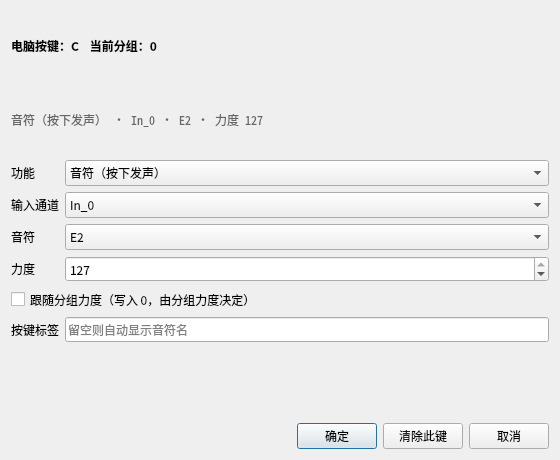
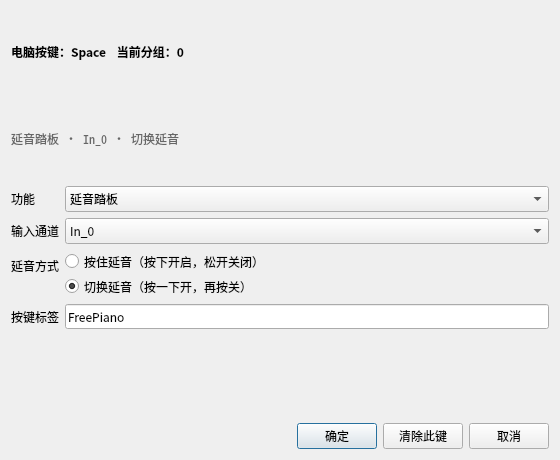
Sustain key modes: hold-to-sustain and toggle
The sustain pedal function in the key editor no longer exposes the generic
operation/value fields.  Instead it offers two explicit sub-options:

- Hold: keydown writes Sustain Set 127, keyup writes Sustain Set 0.
- Toggle: keydown writes Sustain Flip 127, so repeated presses switch
  between 0 and 127 (the old Flip 0 binding only turned sustain off).

The dialog detects an existing Flip binding as toggle and preserves it when
reopened.  Both modes work from physical keys, mouse clicks and .fpm playback;
CC64 state keeps the toolbar button in sync.

Add regression tests for detection, hold release and toggle flipping.
Bump to 1.0.4.

diff --git a/src/ui/main.cpp b/src/ui/main.cpp
@@ -7,6 +7,7 @@
 #include <QSpinBox>
 #include <QMouseEvent>
 #include <QPushButton>
+#include <QRadioButton>
 #include <QTabWidget>
 #include <QTimer>
 
@@ -532,6 +533,88 @@ int main(int argc, char** argv) {
       if (!dialog_ok) ++failures;
     }
 
+    // Sustain key modes: hold (keyup releases) and toggle (each press flips).
+    {
+      key_bind_t orig_down[16];
+      key_bind_t orig_up[16];
+      int n_down = config_bind_get_keydown(DIK_SPACE, orig_down, 16);
+      int n_up = config_bind_get_keyup(DIK_SPACE, orig_up, 16);
+      std::string orig_label = config_bind_get_label(DIK_SPACE);
+      int out_ch = config_get_output_channel(0);
+
+      auto apply_sustain_mode = [&](int mode_index) {
+        KeyEditDialog dialog(DIK_SPACE, &window);
+        dialog.show();
+        QApplication::processEvents();
+        auto* action = dialog.findChild<QComboBox*>("actionCombo");
+        auto* hold = dialog.findChild<QRadioButton*>("sustainHoldRadio");
+        auto* toggle = dialog.findChild<QRadioButton*>("sustainToggleRadio");
+        auto* buttons = dialog.findChild<QDialogButtonBox*>();
+        if (!action || !hold || !toggle || !buttons) return false;
+        action->setCurrentIndex(action->findData(SM_SUSTAIN));
+        if (mode_index == 0) hold->setChecked(true); else toggle->setChecked(true);
+        for (QAbstractButton* b : buttons->buttons()) {
+          if (buttons->buttonRole(b) == QDialogButtonBox::AcceptRole) {
+            b->click();
+            return true;
+          }
+        }
+        return false;
+      };
+
+      // Load the exact binding the user had (Sustain ... Flip 0) and make sure
+      // the dialog recognises it as "toggle" rather than showing Set/Value.
+      config_bind_clear_keydown(DIK_SPACE);
+      config_bind_clear_keyup(DIK_SPACE);
+      config_bind_add_keydown(DIK_SPACE, key_bind_t(SM_SUSTAIN, 0, SM_VALUE_FLIP, 0));
+      bool detected_toggle = false;
+      {
+        KeyEditDialog dialog(DIK_SPACE, &window);
+        dialog.show();
+        QApplication::processEvents();
+        auto* hold = dialog.findChild<QRadioButton*>("sustainHoldRadio");
+        auto* toggle = dialog.findChild<QRadioButton*>("sustainToggleRadio");
+        detected_toggle = hold && toggle && !hold->isChecked() && toggle->isChecked();
+        dialog.reject();
+      }
+      std::printf("  [%s] sustain dialog recognises Flip binding as toggle\n",
+                  detected_toggle ? "ok" : "FAIL");
+      if (!detected_toggle) ++failures;
+
+      bool hold_ok = false;
+      song_send_event(SM_SUSTAIN, 0, SM_VALUE_SET, 0, true);
+      if (apply_sustain_mode(0)) {
+        song_send_event(SM_SYSTEM, SMS_KEY_EVENT, DIK_SPACE, 1, true);
+        bool on = config_get_controller((uint8_t)(SM_OUTPUT_0 + out_ch), 64) >= 64;
+        song_send_event(SM_SYSTEM, SMS_KEY_EVENT, DIK_SPACE, 0, true);
+        bool off = config_get_controller((uint8_t)(SM_OUTPUT_0 + out_ch), 64) < 64;
+        hold_ok = on && off;
+      }
+      std::printf("  [%s] sustain key: hold mode turns off on release\n", hold_ok ? "ok" : "FAIL");
+      if (!hold_ok) ++failures;
+
+      bool toggle_ok = false;
+      song_send_event(SM_SUSTAIN, 0, SM_VALUE_SET, 0, true);
+      if (apply_sustain_mode(1)) {
+        song_send_event(SM_SYSTEM, SMS_KEY_EVENT, DIK_SPACE, 1, true);
+        bool on = config_get_controller((uint8_t)(SM_OUTPUT_0 + out_ch), 64) >= 64;
+        song_send_event(SM_SYSTEM, SMS_KEY_EVENT, DIK_SPACE, 0, true);
+        song_send_event(SM_SYSTEM, SMS_KEY_EVENT, DIK_SPACE, 1, true);
+        bool off = config_get_controller((uint8_t)(SM_OUTPUT_0 + out_ch), 64) < 64;
+        song_send_event(SM_SYSTEM, SMS_KEY_EVENT, DIK_SPACE, 0, true);
+        toggle_ok = on && off;
+      }
+      std::printf("  [%s] sustain key: toggle mode flips CC64\n", toggle_ok ? "ok" : "FAIL");
+      if (!toggle_ok) ++failures;
+
+      config_bind_clear_keydown(DIK_SPACE);
+      config_bind_clear_keyup(DIK_SPACE);
+      for (int i = 0; i < n_down; ++i) config_bind_add_keydown(DIK_SPACE, orig_down[i]);
+      for (int i = 0; i < n_up; ++i) config_bind_add_keyup(DIK_SPACE, orig_up[i]);
+      config_bind_set_label(DIK_SPACE, orig_label.c_str());
+      song_send_event(SM_SUSTAIN, 0, SM_VALUE_SET, 0, true);
+    }
+
     std::printf("%s (%d failure%s)\n", failures == 0 ? "UI TEST PASSED" : "UI TEST FAILED",
                 failures, failures == 1 ? "" : "s");
     engine_shutdown();
@@ -614,7 +697,12 @@ int main(int argc, char** argv) {
       editor.grab().save(shot_dialogs + "/keymap.png");
       editor.close();
 
-      KeyEditDialog keyedit(DIK_C, &window);
+      // Demo the user's actual Space binding: Sustain In_0 Flip 0 + label.
+      config_bind_clear_keydown(DIK_SPACE);
+      config_bind_clear_keyup(DIK_SPACE);
+      config_bind_add_keydown(DIK_SPACE, key_bind_t(SM_SUSTAIN, 0, SM_VALUE_FLIP, 0));
+      config_bind_set_label(DIK_SPACE, "FreePiano");
+      KeyEditDialog keyedit(DIK_SPACE, &window);
       keyedit.resize(560, 460);
       keyedit.show();
       QApplication::processEvents();

diff --git a/src/ui/keyeditdialog.cpp b/src/ui/keyeditdialog.cpp
@@ -12,6 +12,7 @@
 #include <QLabel>
 #include <QLineEdit>
 #include <QPushButton>
+#include <QRadioButton>
 #include <QSpinBox>
 #include <QVBoxLayout>
 
@@ -169,6 +170,21 @@ void KeyEditDialog::buildUi() {
   value_->setRange(0, 127);
   form_->addRow(fp_tr("数值", "Value"), value_);
 
+  sustain_mode_box_ = new QWidget(this);
+  auto* mode_layout = new QVBoxLayout(sustain_mode_box_);
+  mode_layout->setContentsMargins(0, 0, 0, 0);
+  mode_layout->setSpacing(2);
+  sustain_hold_ = new QRadioButton(
+      fp_tr("按住延音（按下开启，松开关闭）", "Hold to sustain (on while held)"), sustain_mode_box_);
+  sustain_hold_->setObjectName("sustainHoldRadio");
+  sustain_toggle_ = new QRadioButton(
+      fp_tr("切换延音（按一下开，再按关）", "Toggle sustain (press to switch)"), sustain_mode_box_);
+  sustain_toggle_->setObjectName("sustainToggleRadio");
+  sustain_toggle_->setChecked(true);
+  mode_layout->addWidget(sustain_hold_);
+  mode_layout->addWidget(sustain_toggle_);
+  form_->addRow(fp_tr("延音方式", "Sustain mode"), sustain_mode_box_);
+
   label_ = new QLineEdit(this);
   label_->setObjectName("keyLabelEdit");
   label_->setPlaceholderText(fp_tr("留空则自动显示音符名", "Empty = automatic note label"));
@@ -264,6 +280,21 @@ void KeyEditDialog::loadCurrentBinding() {
       break;
   }
 
+  bool sustain_hold = false;
+  if (action == SM_SUSTAIN) {
+    if (nd > 0 && current_binding_.c == SM_VALUE_FLIP) {
+      sustain_hold = false;
+    } else if (nd > 0 && current_binding_.c == SM_VALUE_SET && current_binding_.d != 0) {
+      sustain_hold = nu > 0 && keyup[0].a == SM_SUSTAIN && keyup[0].c == SM_VALUE_SET &&
+                     keyup[0].d == 0;
+    } else if (nu > 0 && keyup[0].a == SM_SUSTAIN && keyup[0].c == SM_VALUE_SET &&
+               keyup[0].d == 0) {
+      sustain_hold = true;
+    }
+  }
+  sustain_hold_->setChecked(sustain_hold);
+  sustain_toggle_->setChecked(!sustain_hold);
+
   channel_->setCurrentIndex(std::clamp(channel, 0, 15));
   note_->setCurrentIndex(std::clamp(note, 0, 127));
   bool follow_velocity = kind_ == KIND_NOTE && velocity == 0 && action != SM_NOTE_OFF;
@@ -278,7 +309,11 @@ void KeyEditDialog::loadCurrentBinding() {
 
   if (def && current_binding_.a) {
     QString summary = action_->currentText();
-    switch (kind_) {
+    if (action == SM_SUSTAIN) {
+      summary += QString(" · In_%1 · ").arg(channel);
+      summary += sustain_hold_->isChecked() ? fp_tr("按住延音", "hold")
+                                            : fp_tr("切换延音", "toggle");
+    } else switch (kind_) {
       case KIND_NOTE:
         summary += QString(" · In_%1 · %2").arg(channel).arg(note_->currentText());
         if (action != SM_NOTE_OFF) {
@@ -305,6 +340,7 @@ void KeyEditDialog::onActionChanged() {
   if (loading_) return;
   int action = action_->currentData().toInt();
   kind_ = actionKind(action);
+  if (action == SM_SUSTAIN) sustain_toggle_->setChecked(true);  // default: toggle
   const ActionDef* def = findAction(action);
   if (def) {
     value_->setRange(def->min_value, def->max_value);
@@ -323,12 +359,14 @@ void KeyEditDialog::updateFields() {
 
   int action = action_->currentData().toInt();
   bool has_velocity = note && action != SM_NOTE_OFF;
+  bool sustain = action == SM_SUSTAIN;
   showRow(channel_, note || channel);
   showRow(note_, note);
   showRow(velocity_, has_velocity);
   showRow(group_velocity_, has_velocity);
-  showRow(op_, channel || global);
-  showRow(value_, channel || global || count);
+  showRow(op_, (channel || global) && !sustain);
+  showRow(value_, (channel || global || count) && !sustain);
+  showRow(sustain_mode_box_, sustain);
 
   if (auto* l = qobject_cast<QLabel*>(form_->labelForField(velocity_))) {
     l->setText(action == SM_NOTE_PRESSURE ? fp_tr("压力", "Pressure") : fp_tr("力度", "Velocity"));
@@ -352,6 +390,23 @@ void KeyEditDialog::apply() {
   int value = value_->value();
   int velocity = velocity_->value();
   int op = op_->currentData().toInt();
+
+  if (action == SM_SUSTAIN) {
+    config_bind_clear_keydown(key_code_);
+    config_bind_clear_keyup(key_code_);
+    if (sustain_hold_->isChecked()) {
+      config_bind_add_keydown(key_code_,
+                              key_bind_t((uint8_t)SM_SUSTAIN, (uint8_t)channel, SM_VALUE_SET, 127));
+      config_bind_add_keyup(key_code_,
+                            key_bind_t((uint8_t)SM_SUSTAIN, (uint8_t)channel, SM_VALUE_SET, 0));
+    } else {
+      config_bind_add_keydown(key_code_,
+                              key_bind_t((uint8_t)SM_SUSTAIN, (uint8_t)channel, SM_VALUE_FLIP, 127));
+    }
+    config_bind_set_label(key_code_, label_->text().toUtf8().constData());
+    accept();
+    return;
+  }
 
   key_bind_t bind;
   switch (kind) {

diff --git a/src/ui/keyeditdialog.h b/src/ui/keyeditdialog.h
@@ -11,6 +11,7 @@ class QComboBox;
 class QFormLayout;
 class QLabel;
 class QLineEdit;
+class QRadioButton;
 class QSpinBox;
 
 // Edit the function bound to one computer-keyboard key.
@@ -39,6 +40,9 @@ class KeyEditDialog : public QDialog {
   QComboBox* note_ = nullptr;
   QComboBox* op_ = nullptr;
   QSpinBox* value_ = nullptr;
+  QWidget* sustain_mode_box_ = nullptr;
+  QRadioButton* sustain_hold_ = nullptr;
+  QRadioButton* sustain_toggle_ = nullptr;
   QSpinBox* velocity_ = nullptr;
   QCheckBox* group_velocity_ = nullptr;
   QLineEdit* label_ = nullptr;

diff --git a/README.md b/README.md
@@ -14,7 +14,7 @@
 * **键盘演奏**：屏幕上的 PC 键盘实时显示音符/功能标签，按下时高亮；下方 88 键钢琴同步显示。
 * **鼠标演奏**：左键点击上方屏幕键盘或下方钢琴即可发声，按住拖动可滑奏；鼠标按键同样会录入乐曲。
 * **右键改键**：右键点击屏幕键盘上的任意键，可直接修改该键在当前分组中的功能（音符、通道、八度、
-  移调、延音、播放/录制等），无需手写 `.map`。
+  移调、延音、播放/录制等），无需手写 `.map`；延音键可选「按住延音」或「切换延音」。
 * **延音按钮**：工具栏「延音」一键切换延音踏板（CC64），状态跟随键位脚本/回放同步，并会录入乐曲。
 * **原版键位兼容**：直接加载 FreePiano 的 `.map` 键位文件（含 `NoteOn / Octave / Velocity /
   Transpose / KeySignature / Group / Sustain / 中文指令` 等），自带 `freepiano.map`、
@@ -84,6 +84,7 @@ sudo cmake --install build          # 默认前缀 /usr/local
   `Q W E…` 和数字行为高音区；`F1/F2` 切换分组，`F3/F4` 曲调，`F5-F12` 八度/力度）。
 * 左键点击上方屏幕键盘或下方钢琴都可以演奏（可按住拖动滑奏），鼠标按下的音会录入乐曲。
 * 右键点击上方屏幕键盘的某个键，可修改该键在当前分组中的功能；「清除此键」可解除绑定。
+  延音踏板键提供两个子选项：**按住延音**（按下开启、松开关闭）和**切换延音**（按一次开、再按关）。
 * 工具栏「延音」按钮切换延音踏板（作用于 `In_0` 对应的输出通道，即默认键位），按钮状态会跟随
   键位脚本/乐曲回放更新；开启时会录入乐曲。
 * `●` 录制、`▶` 播放、`■` 停止；`Ctrl+O / Ctrl+S` 打开/保存 `.fpm`，`Ctrl+E` 导出 WAV。
@@ -169,7 +170,8 @@ PulseAudio，请选择 “PulseAudio / PipeWire (default)”。默认的 mdaPian
 * 键盘扫描码回归用例（X11 `evdev+8` 与原始 evdev 两种口径）全部通过；
 * 4/4 `.map` 全部可加载（含 `flashpiano.map`、`idreampiano.map`）；
 * 自测全部通过，WAV 导出非静音（mdaPiano、内置合成器与 FluidSynth 均验证）；
-* UI 测试覆盖鼠标点击演奏、右键改键信号、延音按钮和改键对话框的实际重绑定。
+* UI 测试覆盖鼠标点击演奏、右键改键信号、延音按钮、改键对话框重绑定，以及延音键的
+  「按住」和「切换」两种模式。
 
 ## 开发
 

diff --git a/PORTING.md b/PORTING.md
@@ -118,6 +118,10 @@ MIT（或 GPL）许可发布，Linux 上无需 VST 宿主即可使用：
   * 右键发出 `editKeyRequested`，由 `KeyEditDialog` 修改当前分组中该键的绑定。
 * `KeyEditDialog` 用表单覆盖常用脚本动作（音符、通道、八度、移调、延音、播放/录制等），
   写入 `config_bind_add_keydown()`；支持“跟随分组力度”（velocity=0）和自定义键帽文字。
+* 延音踏板在改键对话框中有两个子模式：
+  * **按住延音**：keydown 写 `Sustain In_x Set 127`，keyup 写 `Sustain In_x Set 0`；
+  * **切换延音**：keydown 写 `Sustain In_x Flip 127`（用 127 作为翻转基准，0/127 之间切换）。
+  这利用了键盘层已有的 keyup 事件表，物理键盘、鼠标点击和 `.fpm` 回放都走同一条路径。
 * 工具栏「延音」是 checkable 按钮：切换时发送 `SM_SUSTAIN`（可录制），每帧从 CC64 状态同步，
   因此脚本/回放改变延音时按钮也会跟着变。
 
